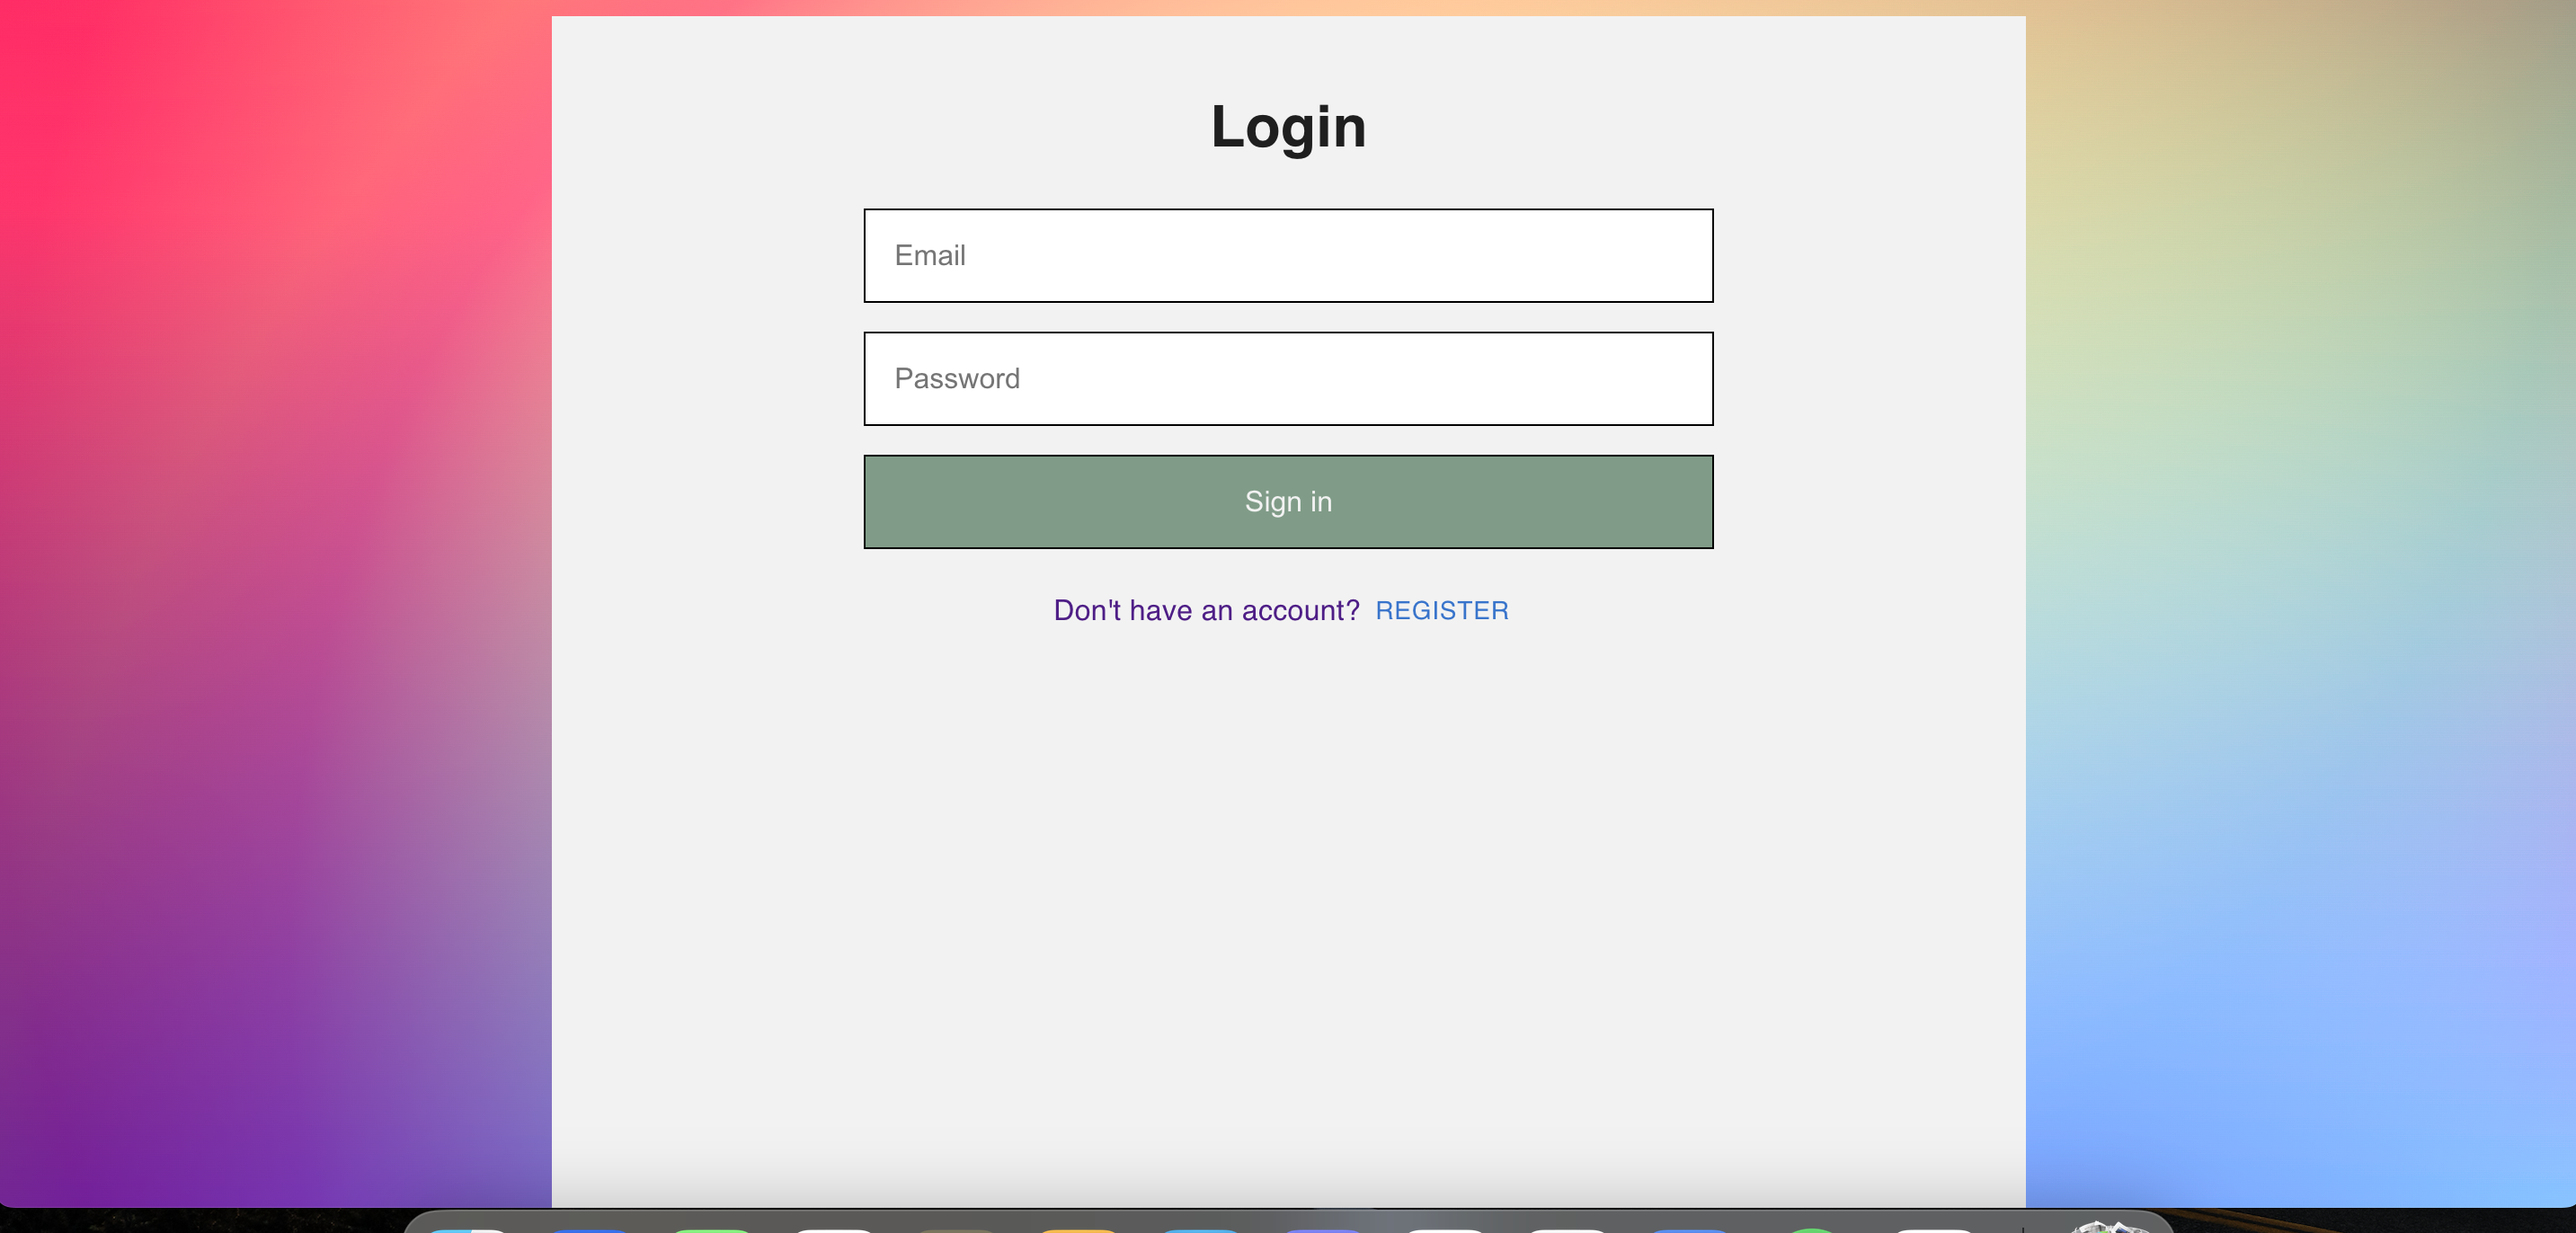
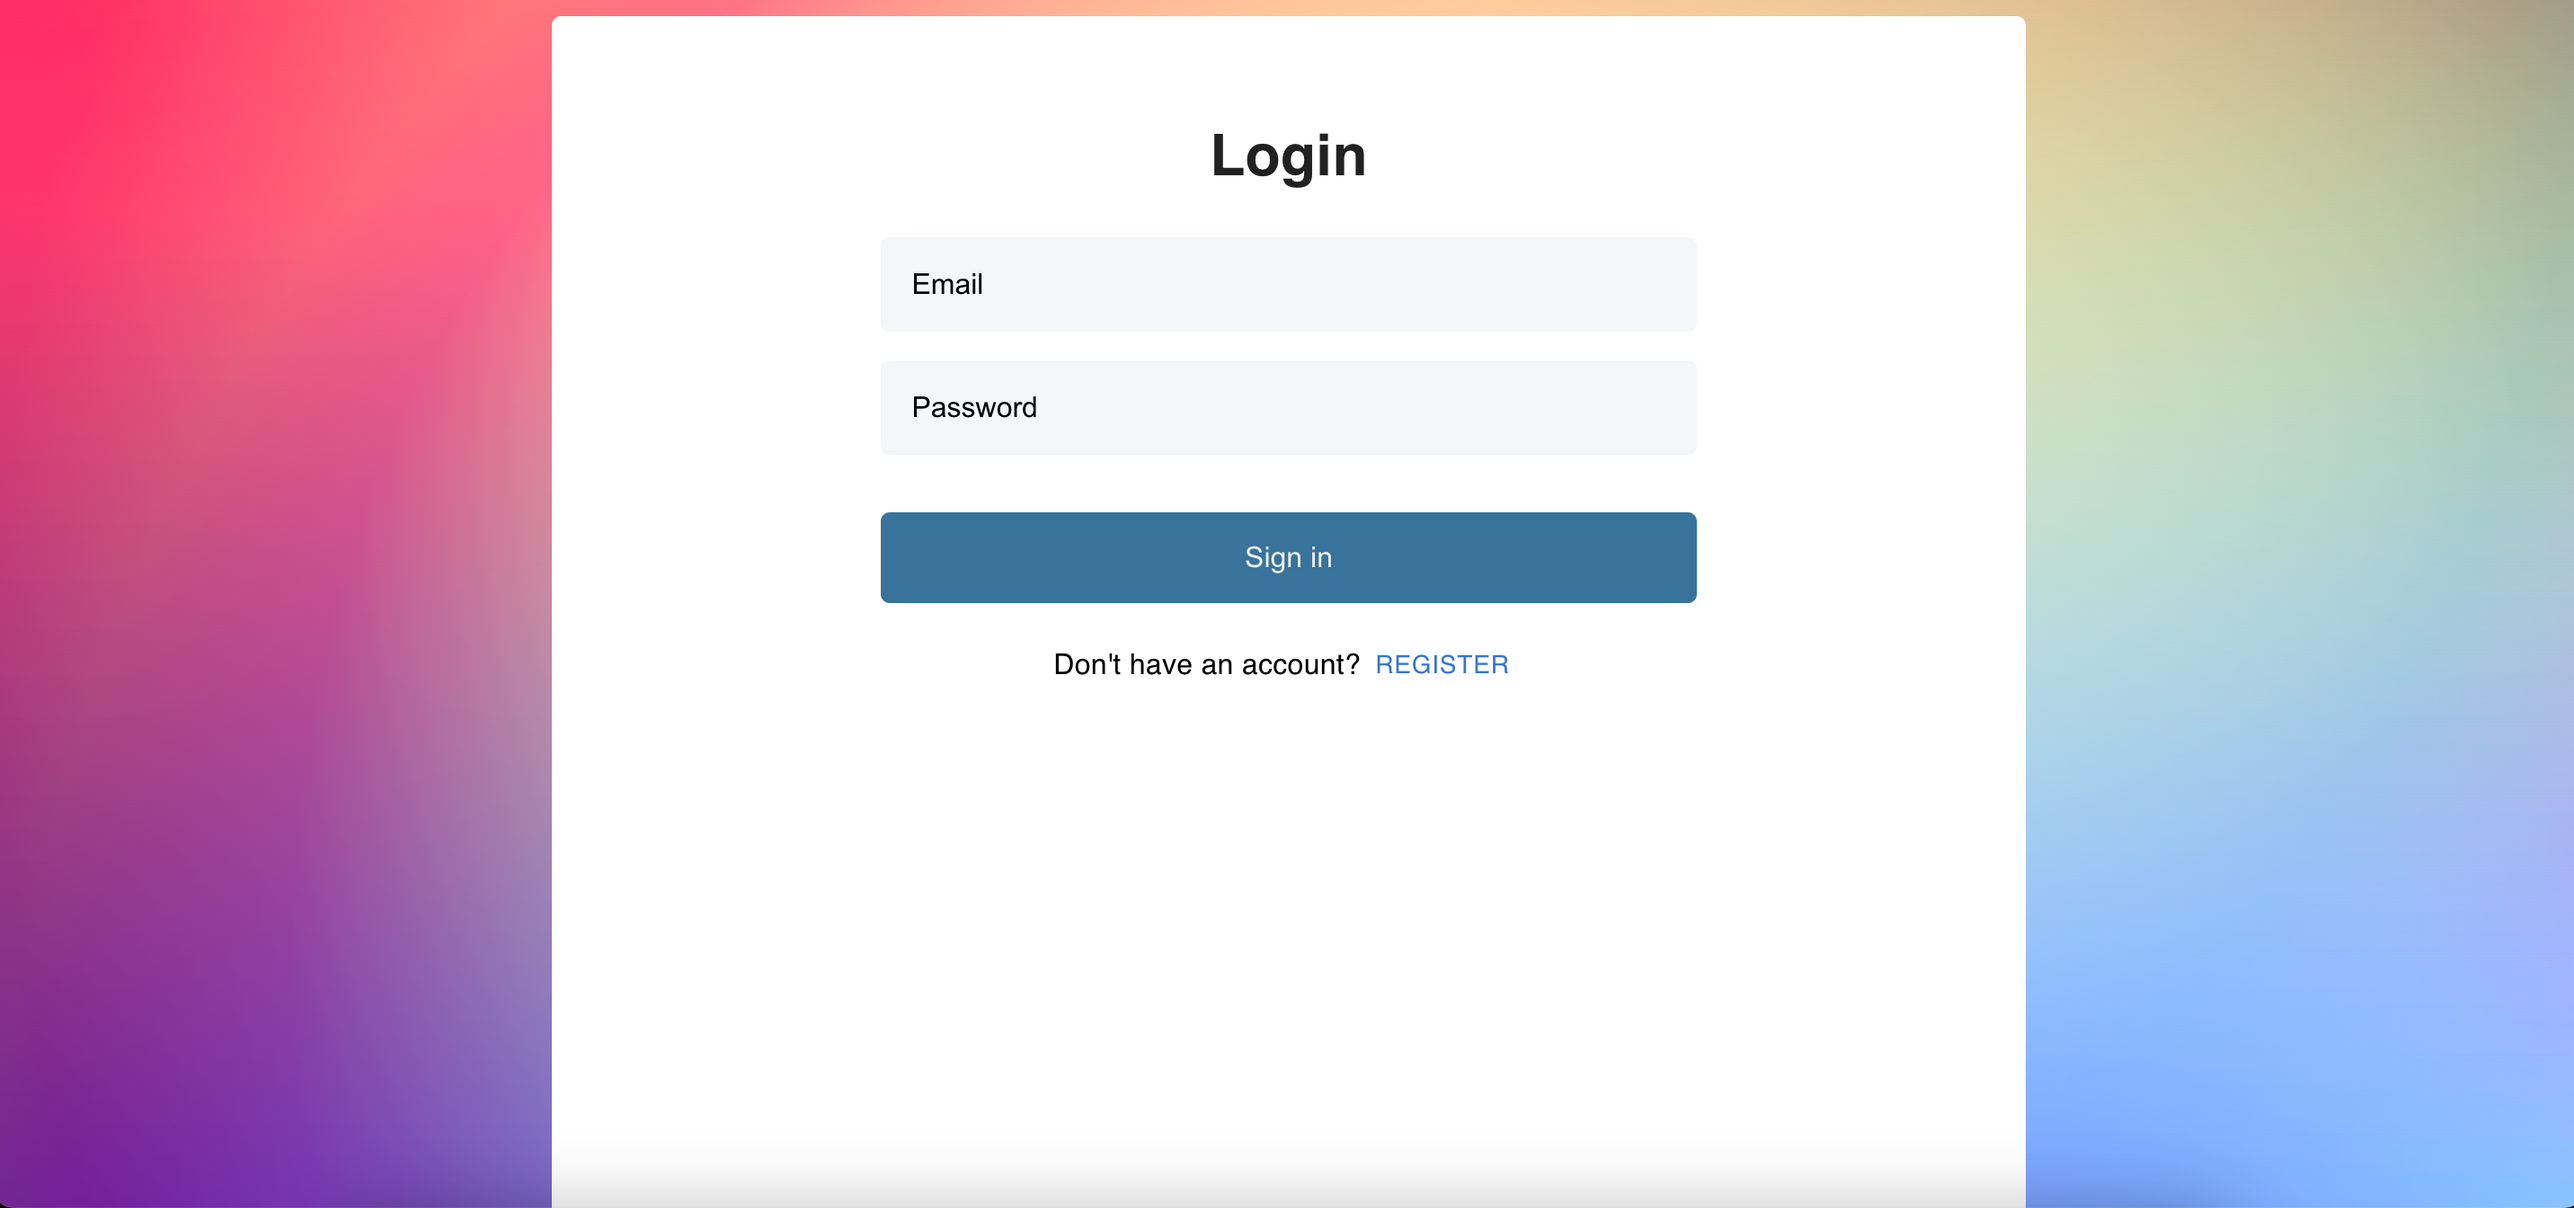
Redesigned the application

diff --git a/src/components/TodoList.jsx b/src/components/TodoList.jsx
@@ -19,7 +19,9 @@ const Search = styled("div")(({ theme }) => ({
   width: "100%",
   [theme.breakpoints.up("sm")]: {
     width: "auto",
-    border: "1px solid gray",
+    backgroundColor: "#f4f6f7",
+    margin: "1rem 0",
+    border: "2px solid #f4f6f7",
   },
 }));
 
@@ -41,7 +43,7 @@ const StyledInputBase = styled(InputBase)(({ theme }) => ({
     transition: theme.transitions.create("width"),
     width: "100%",
     [theme.breakpoints.up("sm")]: {
-      width: "12ch",
+      width: "50ch",
       "&:focus": {
         width: "20ch",
       },
@@ -71,11 +73,11 @@ export default function TodoList() {
 
   const todoSearch = async (e) => {
     console.log("hello");
-
-    setSearchTodo(e.target.value);
+    const searchText = e.target.value;
+    setSearchTodo(searchText);
     try {
       const response = await axios.get(
-        `http://localhost:3001/todo/search?search=${searchTodo}&userId=${userId}`
+        `http://localhost:3001/todo/search?search=${searchText}&userId=${userId}`
       );
       setTaskList(response.data);
     } catch (err) {
@@ -107,8 +109,9 @@ export default function TodoList() {
   return (
     <div className="main">
       <form onSubmit={addTask}>
+        <h1 style={{ textAlign: "center" }}>Add Todo</h1>
+
         <div className="textfield">
-          <h1 style={{ textAlign: "center" }}>Add Todo</h1>
           <input
             required
             className="addTask"
@@ -121,9 +124,11 @@ export default function TodoList() {
             value="Add"
             variant="contained"
             style={{
-              backgroundColor: "#789D87",
+              backgroundColor: "#1a759f",
               color: "#FFF",
               marginLeft: ".5rem",
+              padding: "0.7rem 1rem",
+              width: "23%",
             }}
           >
             Add

diff --git a/src/components/TaskList.js b/src/components/TaskList.js
@@ -27,14 +27,14 @@ const style = {
 
 const style2 = {
   position: "absolute",
-  top: "7%",
-  left: "6%",
-  fontSize: "2rem",
-  backgroundColor: "rgb(120, 157, 135)",
+  top: "11%",
+  left: "8%",
+  fontSize: "1.7rem",
+  backgroundColor: "#1a759f",
   color: "#f2f2f2",
   borderRadius: "3px",
+  padding: ".2rem .3rem",
 };
-
 export default function TaskList() {
   const location = useLocation();
   const task = (location.state && location.state.task) || null;
@@ -110,10 +110,12 @@ export default function TaskList() {
       <Container maxWidth="md">
         <Box
           sx={{
-            backgroundColor: "#f2f2f2",
+            backgroundColor: "#fff",
             minHeight: "100vh",
             margin: "1rem",
-            padding: "1rem",
+            padding: "2rem",
+            position: "relative",
+            borderRadius: "5px",
           }}
         >
           <div>
@@ -132,9 +134,11 @@ export default function TaskList() {
                 value="Add"
                 variant="contained"
                 style={{
-                  backgroundColor: "#789D87",
+                  backgroundColor: "#1a759f",
                   color: "#FFF",
                   marginLeft: ".5rem",
+                  padding: "0.7rem 0.1rem",
+                  width: "19%",
                 }}
               >
                 Add
@@ -148,7 +152,6 @@ export default function TaskList() {
                 <div className="taskList">
                   <div className="hero">
                     <div>
-                      {/* <Checkbox style={{ marginRight: ".5rem" }} /> */}
                       <span
                         style={{ marginRight: "1rem", marginLeft: ".5rem" }}
                       >

diff --git a/src/App.css b/src/App.css
@@ -15,6 +15,7 @@
   display: flex;
   justify-content: center;
   align-items: center;
+  color: #000;
 }
 
 .main {
@@ -36,13 +37,17 @@
   margin-bottom: 1rem;
   padding: 1em;
   font-size: 1rem;
-  /* background-color: #f2f2f2; */
   border: 0;
-  border: 1px solid #000;
+  border: 1px solid #f4f6f7;
+  border-radius: 5px;
+  background-color: #f4f6f7;
 }
 .btn {
-  background-color: rgb(120, 157, 135);
+  background-color: #1a759f;
   color: #f2f2f2;
+  border: 0;
+  border-radius: 5px;
+  margin-top: 1rem;
 }
 
 .todo-input {
@@ -53,8 +58,8 @@
 }
 
 .MuiButtonBase-root.MuiButton-contained.MuiButton-containedPrimary {
-  background-color: rgb(120, 157, 135);
-  color: #000;
+  background-color: #1a759f;
+  color: #fff;
   margin-left: 0.5rem;
 }
 
@@ -77,24 +82,28 @@ form {
 }
 
 .hero {
-  /* background-color: rgb(209, 213, 222); */
-  background-color: #ccddd3;
   display: flex;
   justify-content: space-between;
   align-items: center;
   width: 100%;
   padding: 0.5em 0.5em;
+  background-color: #f4f6f7;
+  border-radius: 5px;
 }
 
 .addTask {
   margin-bottom: 1.5rem;
-  width: 85%;
+  width: 75%;
   padding: 0.6rem;
   background-color: #f4f4f4;
-  border: 1px solid gray;
+  border-radius: 5px;
+  padding: 1rem;
+  border-color: #f4f4f4;
+  border: 0;
 }
 ::placeholder {
   font-size: 1rem;
+  color: #000;
 }
 
 .textfield {

diff --git a/src/components/Register.js b/src/components/Register.js
@@ -11,6 +11,7 @@ const Register = () => {
   const [name, setName] = useState("");
   const [email, setEmail] = useState("");
   const [password, setPassword] = useState("");
+  const [error, setError] = useState(false);
   const [confirmPassword, setConfirmPassword] = useState("");
   const navigate = useNavigate();
 
@@ -26,13 +27,13 @@ const Register = () => {
         email,
         password,
       });
-      console.log(response);
       if (response.status === 201) {
         localStorage.setItem("id", response.data._id);
         navigate("/home");
       }
     } catch (err) {
       console.log(err);
+      setError(true);
     }
   };
 
@@ -43,10 +44,11 @@ const Register = () => {
       <Container maxWidth="md">
         <Box
           sx={{
-            backgroundColor: "#f2f2f2",
+            backgroundColor: "#fff",
             minHeight: "100vh",
             margin: "1rem",
             padding: "2rem",
+            borderRadius: "5px",
           }}
         >
           <div>
@@ -90,6 +92,7 @@ const Register = () => {
               >
                 Sign in
               </button>
+              {error ? <p style={{ color: "red" }}>User already exists</p> : ""}
             </form>
             <Link to="/login" className="link">
               Already have an account?<Button>Login</Button>

diff --git a/src/components/Login.js b/src/components/Login.js
@@ -15,6 +15,7 @@ const Login = () => {
   const loginUser = async (e) => {
     e.preventDefault();
     setError(false);
+
     try {
       const response = await axios.post("http://localhost:3001/user/login", {
         email,
@@ -38,10 +39,11 @@ const Login = () => {
       <Container maxWidth="md">
         <Box
           sx={{
-            backgroundColor: "#f2f2f2",
+            backgroundColor: "#fff",
             minHeight: "100vh",
             margin: "1rem",
-            padding: "1rem",
+            padding: "2rem",
+            borderRadius: "5px",
           }}
         >
           <div>

diff --git a/src/index.css b/src/index.css
@@ -1,8 +1,6 @@
 body {
   margin: 0;
-  font-family: -apple-system, BlinkMacSystemFont, "Segoe UI", "Roboto", "Oxygen",
-    "Ubuntu", "Cantarell", "Fira Sans", "Droid Sans", "Helvetica Neue",
-    sans-serif;
+  font-family: "Lato", sans-serif;
 
   background: radial-gradient(50% 123.47% at 50% 50%, #00ff94 0%, #720059 100%),
     linear-gradient(121.28deg, #669600 0%, #ff0000 100%),
@@ -15,6 +13,5 @@ body {
 }
 
 code {
-  font-family: source-code-pro, Menlo, Monaco, Consolas, "Courier New",
-    monospace;
+  font-family: "Lato", sans-serif;
 }

diff --git a/src/components/Home.js b/src/components/Home.js
@@ -12,11 +12,12 @@ export default function Home() {
       <Container maxWidth="md">
         <Box
           sx={{
-            backgroundColor: "#f2f2f2",
+            backgroundColor: "#fff",
             minHeight: "100vh",
-            margin: "2rem",
-            padding: "1rem",
+            margin: "1rem",
+            padding: "2rem",
             position: "relative",
+            borderRadius: "5px",
           }}
         >
           <TodoList />

diff --git a/public/index.html b/public/index.html
@@ -9,6 +9,9 @@
       name="description"
       content="Web site created using create-react-app"
     />
+    <link rel="preconnect" href="https://fonts.googleapis.com" />
+    <link rel="preconnect" href="https://fonts.gstatic.com" crossorigin />
+
     <link rel="apple-touch-icon" href="%PUBLIC_URL%/logo192.png" />
     <!--
       manifest.json provides metadata used when your web app is installed on a

diff --git a/README.md b/README.md
@@ -16,11 +16,11 @@ Material UI, React JS, AppWrite
 - Search todo
 - User authentication
 
-![Create todo page](./assets/home.png)
+![Create todo page](./assets/homepage.png)
 ![Register-page](./assets/register.png)
 ![Login-page](./assets/login.png)
-![tasks](./assets/sub-todo.png)
-![Update](./assets/updateTodo.png)
+![tasks](./assets/subtodo.png)
+![Update](./assets/updatePage.png)
 
 ## To run the application
 
